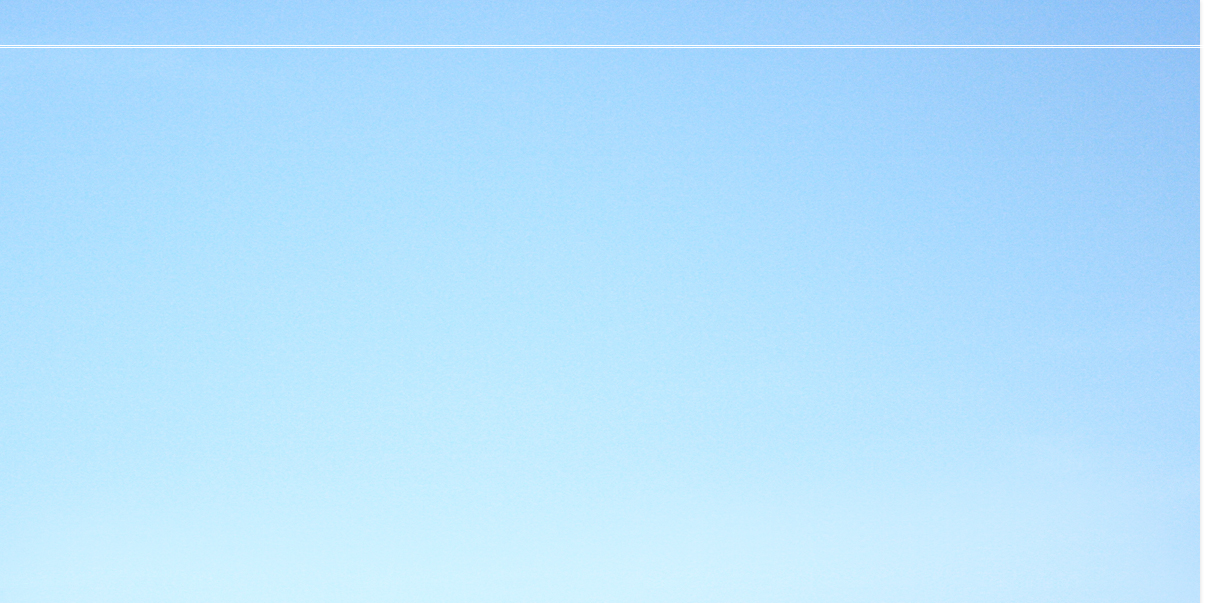
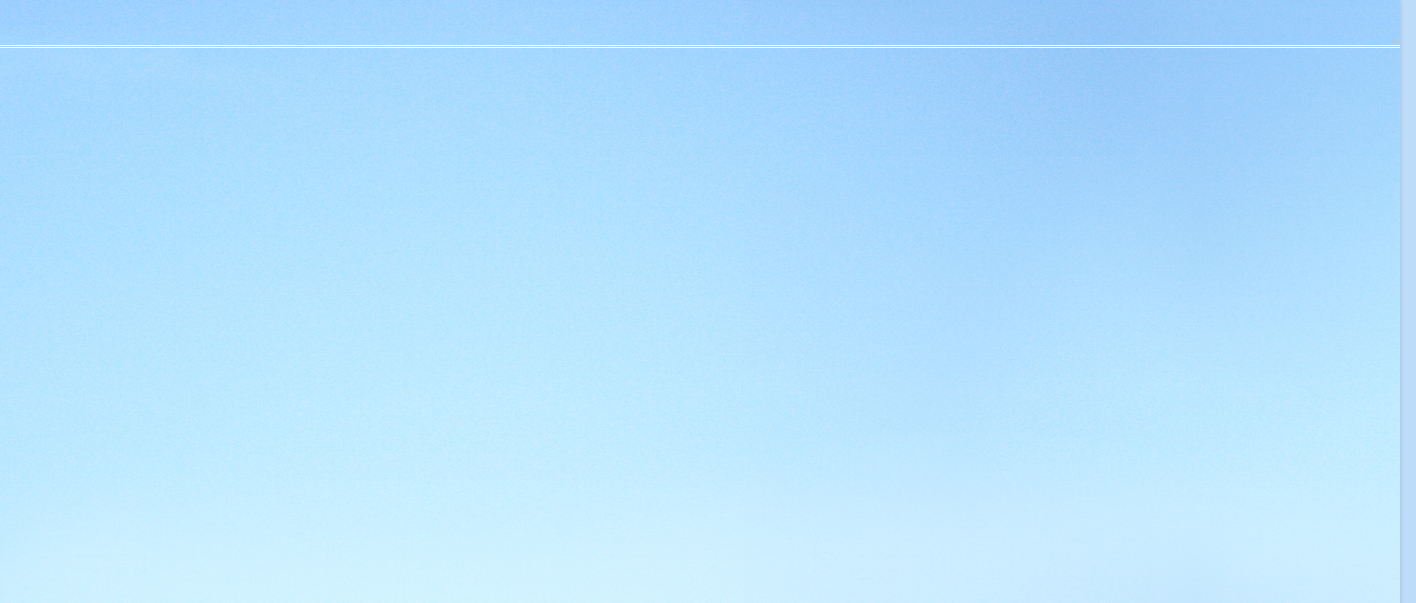
Makde sky wider and bluer

Changed region(s): [[0.9656, 0.0, 1.0, 1.0]]

diff --git a/themes/skyblue/css/layout.css b/themes/skyblue/css/layout.css
@@ -5,16 +5,16 @@
 body {
   margin:0; 
   padding:0 0 97px 0;
-  background:#fff url(../images/sitebg_bottom.jpg) no-repeat 0 100%;
+  background: #bddcf9 url(../images/sitebg_bottom.jpg) no-repeat 0 100%;
 }
   #second-body {
     width:100%;
-    background:#fff url(../images/sitebg_tile.jpg) repeat-y 0 0;
+    background: url(../images/sitebg_tile.jpg) repeat-y 0 0;
   }
   #third-body {
     width:100%;
     min-height:600px;
-    background:url(../images/sitebg_top.jpg) no-repeat 0 0;
+    background: url(../images/sitebg_top.jpg) no-repeat 0 0;
   }
   #top-bar {
     margin:0 0 0 5%;
